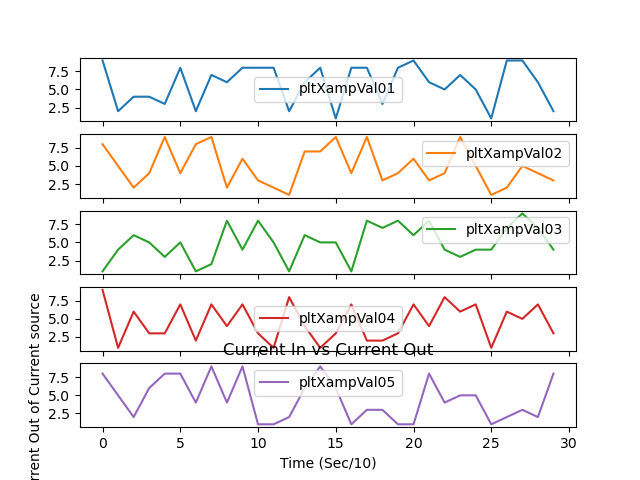
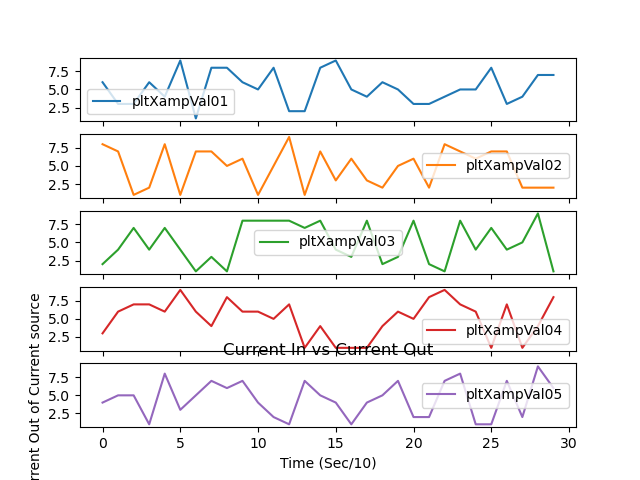
update

diff --git a/Python/picoTest.py b/Python/picoTest.py
@@ -44,10 +44,9 @@ counter = 0
 voltIn = 0
 currOut = 0
 commandTX = 0
-power = 8
-
-
-colNum = 3      #int(input('How many colums do you want to test?'))
+colSelect = 1 
+power = 9
+colNum = 1      #int(input('How many colums do you want to test?'))
 currentInc = 11   #int(input('How many steps for current?'))
 voltInc = 34      #int(input('How many steps for Voltage?'))
 
@@ -55,15 +54,13 @@ voltInc = 34      #int(input('How many steps for Voltage?'))
 cOut = "CurrOut000" 
 cIn = "CurrIn000"
 ampVal = "ampVal01"
-pltX = "pltX"
+pltX = "CurrIn1"
 pltY = "pltY"
 picLoc = "C:\\Users\\jpew\\AppData\\Local\\miniconda3\\envs\\testequ\\RTSeval\\Python\\Data\\csCharacterization\\"
 picName = "cs000"
 
 time.sleep(1)
-colSelect = 1 
 for c in range(colNum):
-
     if counter > 0:
         cOut = re.sub(r'[0-9]+$',
              lambda x: f"{str(int(x.group())+1).zfill(len(x.group()))}",    # increments the number in the column name
@@ -74,53 +71,57 @@ for c in range(colNum):
         picName = re.sub(r'[0-9]+$',
              lambda x: f"{str(int(x.group())+1).zfill(len(x.group()))}",    # increments the number in the column name
              picName)
-    WC = write_cmd(str(2))                                       # increments the column to test
-    commandRX = pico.read_until()
+    WC = write_cmd(str(2))                                                  # increments the column to test
+    commandRX = pico.read_until().strip().decode()
     time.sleep(.5)
     print('pico confirmed: '+ str(commandRX))
     column = write_cmd(str(colSelect))
-    columnRX = pico.read_until()
+    columnRX = pico.read_until().strip().decode()
     print('pico selected column: ' + str(columnRX))
-    RFID = pico.read_until()                                                      # checks if pico is done with shift register
-    if RFID == b'1\r\n':
+    commandRX = int(pico.read_until().strip().decode())                      # checks if pico is done with shift register
+    if commandRX == 1:
         for a in range(5):
-            currIn = 1 / pow(10, power)                                                    # the current applied to currentSource
+            currIn = pow(10, -power)                                                    # the current applied to currentSource
             # smu.apply_current(smu.smua, currIn)
-            startT = (time.perf_counter())
-            while time.perf_counter() - startT <= 3:                # checks if the run time has reached 60 sec
-                if counter == 0:
-                    csData.at[row, str(cIn)] = row/10
-                csData.at[row, str(cOut+ampVal)] = random.randint(1, 9)
-                #pltData.at[row, str(pltX+ampVal)] = row/10
-                pltData.at[row, str(pltX+ampVal)] = csData.at[row, str(cOut+ampVal)]
-                if debug is True:
-                    print(time.perf_counter()-startT)
+            startT = round(time.perf_counter(), 4)
+            while round(time.perf_counter(), 4) - startT <= 3.1:                         # checks if the run time has reached 60 sec
+                currentTime = round(time.perf_counter(), 4)-startT
+                #if counter == 0:
+                csData.at[row, 'Time'] = currentTime
+                pltData.at[row, pltX] = currIn # smu.smua.measurei()
+                pltData.at[row, str(ampVal)] = random.randint(1, 9)
                 row = row + 1
-                time.sleep(.1)
+                time.sleep(.1000)
+            csData[str(cOut+ampVal)] = pltData[str(ampVal)]
             if a < 4:
                 ampVal = re.sub(r'[0-9]+$',
                 lambda x: f"{str(int(x.group())+1).zfill(len(x.group()))}",    # increments the number in the column name
                 ampVal)
+                pltX = re.sub(r'[0-9]+$',
+                lambda x: f"{str(int(x.group())+1).zfill(len(x.group()))}",    # increments the number in the column name
+                pltX)
             row = 0
-            
+            power = power - 1
+        power = 9
+        pltX = 'CurrIn1'            
         ampVal = "ampVal01"
         print(pltData)
-        pltData.plot(sharex=True, subplots=[(pltX+'ampVal01',(pltX+'ampVal01')), ((pltX+'ampVal02'),(pltX+'ampVal02')),
-            ((pltX+'ampVal03'),(pltX+'ampVal03')), ((pltX+'ampVal04'),(pltX+'ampVal04')), ((pltX+'ampVal05'),(pltX+'ampVal05'))])
-        
-        plt.title("Current In vs Current Out")
-        plt.xlabel("Time (Sec/10)")
-        plt.ylabel("Current Out of Current source")
+        pltData.plot(xlabel="Time", ylabel="Current Out", sharey=True, title="Current In vs. Current Out", legend=True, subplots=[('CurrIn1','ampVal01'),('CurrIn2','ampVal02'),('CurrIn3','ampVal03'),
+                                ('CurrIn4','ampVal04'),('CurrIn5','ampVal05')])
+        #ax=[pltData.Time1,pltData.Time2,pltData.Time3,pltData.Time4,pltData.Time5], 
+        #plt.title("Current In vs Current Out")
         plt.savefig(str(picLoc) + str(picName) + '.png')
         fig = plt.show(block = False)
+        #pltData.to_csv('C:\\Users\\jpew\\AppData\\Local\\miniconda3\\envs\\testequ\\RTSeval\\Python\\Data\\csCharacterization\\csCharData'+ampVal+'.csv')
         plt.pause(3)
         plt.close(fig)
     RFID = b''
     counter = counter + 1    
     colSelect = colSelect + 1
-    time.sleep(.2)
+    time.sleep(.1)
 #plt.show()        
 print(csData)
+csData.to_csv('C:\\Users\\jpew\\AppData\\Local\\miniconda3\\envs\\testequ\\RTSeval\\Python\\Data\\csCharacterization\\cscharData.csv')
 # csData.to_csv('~/miniconda3/envs/testequ/RTSeval/Python/Data/cscharData.csv')
 # smu._write(value='smua.source.output = smua.OUTPUT_OFF')
 # smu._write(value='smub.source.output = smub.OUTPUT_OFF')

diff --git a/Python/csChar.py b/Python/csChar.py
@@ -28,7 +28,8 @@ def write_cmd(x):
     pico.write(bytes(x, 'utf-8'))
     time.sleep(0.05)
 
-csData = pd.DataFrame(data=[], index=[], columns=[])           #create dataframe
+csData = pd.DataFrame(data=[], index=[], columns=[])  
+pltData = pd.datafrme(data=[], index=[], columns=[])         #create dataframe
 bk.remoteMode(True, bkPS) #set remote mode for power supply
 bk.setMaxVoltage(3.33, bkPS)   #set max voltage for PS
 bk.outputOn(True, bkPS)     #turn the powersupply on
@@ -36,6 +37,7 @@ bk.volt(3.3, bkPS)    #set voltage for power supply
 
 bkdmm.write(b'func volt:dc\n')                                  #set dmm to volt
 bkdmm.write(b'volt:dc:rang:auto 1\n')                           #set ddm to auto range
+debug = False
 row = 0
 counter = 0
 voltIn = 0
@@ -49,11 +51,11 @@ voltInc = 34      #int(input('How many steps for Voltage?'))
 
 smu.apply_current(smu.smua, 0)
 cOut = "CurrOut000"           
-vOut = "VoltOut001"
 cIn = "CurrIn"
 ampVal = "ampVal01"
+pltX = "pltX"
 picLoc = "~/miniconda3/envs/testequ/RTSeval/Python/Data/"
-picName = "cs001"
+picName = "cs000"
 
 time.sleep(1)
 for c in range(colNum):
@@ -61,6 +63,9 @@ for c in range(colNum):
         cOut = re.sub(r'[0-9]+$',
              lambda x: f"{str(int(x.group())+1).zfill(len(x.group()))}",    # increments the number in the column name
              cOut)
+        cIn = re.sub(r'[0-9]+$',
+             lambda x: f"{str(int(x.group())+1).zfill(len(x.group()))}",    # increments the number in the column name
+             cIn)
         picName = re.sub(r'[0-9]+$',
              lambda x: f"{str(int(x.group())+1).zfill(len(x.group()))}",    # increments the number in the column name
              picName)
